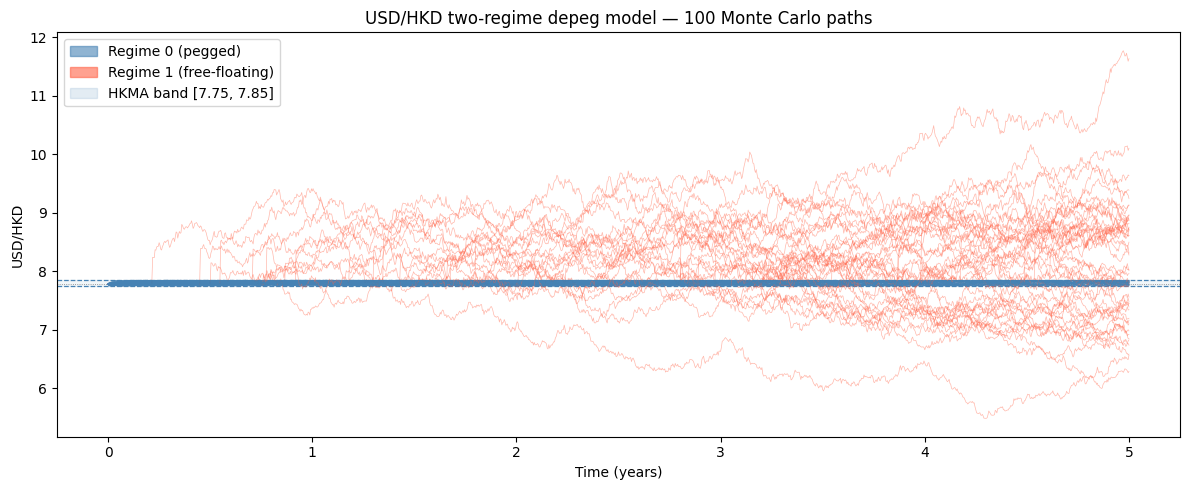
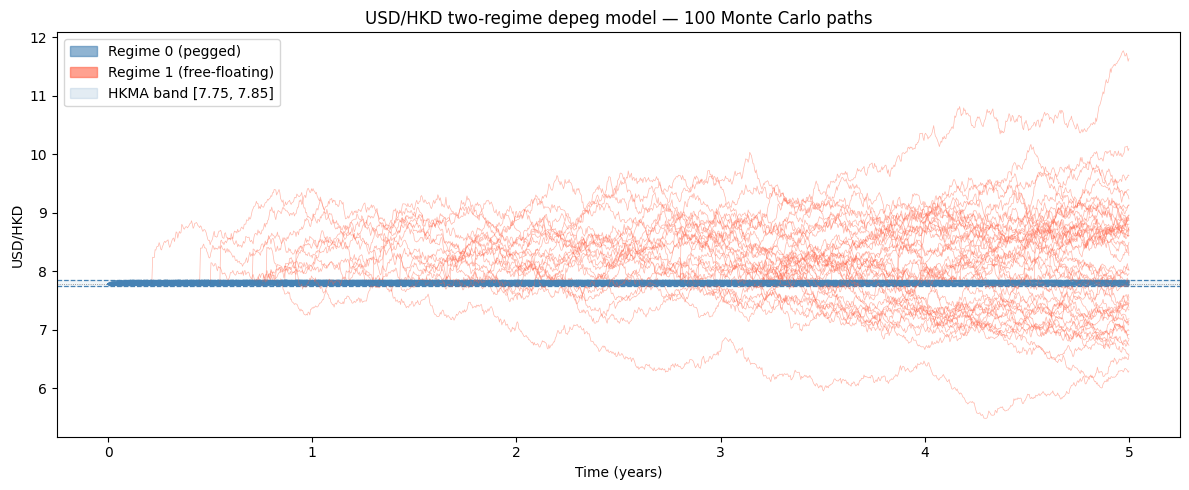
add figures

diff --git a/_posts/2021-11-01-depeg.md b/_posts/2021-11-01-depeg.md
@@ -481,6 +481,9 @@ def semi_analytic_call(K):
     return C_peg + C_dep
 ```
 
+    Pre-computing Regime-0 density on (s, x) grid …  done.
+
+
 ### Forward Price
 
 We first verify that $F_{\rm model} = \mathbb{E}^Q[S(T)]$ computed analytically from the density matches the Monte Carlo estimate. We also decompose the forward into the no-depeg and depeg contributions:
@@ -539,6 +542,34 @@ print(f"{'E[S(T) | depeg]     Monte Carlo':<42}  {S_T_fwd[depegged].mean():10.5f
 z = (F_model - fwd_mc) / fwd_se
 print(f"\nz-score  (F_model − MC) / SE  =  {z:.2f}  (|z| < 1.96 → within 95% CI)")
 ```
+
+    Simulating 200,000 paths for forward validation …  
+
+    /var/folders/82/lkpb1cxn4rz7l0xpl7j_d8vm0000gn/T/ipykernel_58759/3118217143.py:3: DeprecationWarning: `trapz` is deprecated. Use `trapezoid` instead, or one of the numerical integration functions in `scipy.integrate`.
+      m1_s = np.trapz(x_grid * p0_grid, x_grid, axis=1)   # shape (NS,)
+    /var/folders/82/lkpb1cxn4rz7l0xpl7j_d8vm0000gn/T/ipykernel_58759/3118217143.py:4: DeprecationWarning: `trapz` is deprecated. Use `trapezoid` instead, or one of the numerical integration functions in `scipy.integrate`.
+      m1_T = np.trapz(x_grid * p0_at_T, x_grid)           # scalar
+    /var/folders/82/lkpb1cxn4rz7l0xpl7j_d8vm0000gn/T/ipykernel_58759/3118217143.py:10: DeprecationWarning: `trapz` is deprecated. Use `trapezoid` instead, or one of the numerical integration functions in `scipy.integrate`.
+      + np.trapz(
+
+
+    done.
+    
+    Quantity                                         Value
+    ────────────────────────────────────────────────────────
+    F_model  (analytic from density)               8.04996
+    E[S(T)]  Monte Carlo                           8.05103
+      95% CI                                    [8.04755, 8.05450]
+    F_bs     S0·e^(r-q)T  (cost-of-carry)          8.17889
+    
+    P(no depeg)  Monte Carlo                      60.7995%
+    P(no depeg)  theory  e^(-λT)                  60.6531%
+    
+    E[S(T) | no depeg]  Monte Carlo                7.80230  ← in [7.75, 7.85]
+    E[S(T) | depeg]     Monte Carlo                8.43679
+    
+    z-score  (F_model − MC) / SE  =  -0.60  (|z| < 1.96 → within 95% CI)
+
 
 ### Vanilla Call Prices
 
@@ -603,6 +634,46 @@ for K, cp, cm, lo, hi, z in zip(K_grid, analytic_prices, mc_prices, mc_lo, mc_hi
     flag = "" if abs(z) < 1.96 else "  ← outside 95% CI"
     print(f"{K:8.3f}  {cp:10.5f}  {cm:10.5f}  {lo:8.5f}  {hi:8.5f}  {z:8.2f}{flag}")
 ```
+
+    Computing semi-analytic prices …  done.
+    Simulating 50,000 paths …  
+
+    <>:45: SyntaxWarning: invalid escape sequence '\,'
+    <>:45: SyntaxWarning: invalid escape sequence '\,'
+    /var/folders/82/lkpb1cxn4rz7l0xpl7j_d8vm0000gn/T/ipykernel_58759/1377245770.py:45: SyntaxWarning: invalid escape sequence '\,'
+      ax.set_ylabel('$(C_{\\rm analytic} - C_{\\rm MC})\,/\,\\mathrm{SE}$')
+    /var/folders/82/lkpb1cxn4rz7l0xpl7j_d8vm0000gn/T/ipykernel_58759/4002674371.py:55: DeprecationWarning: `trapz` is deprecated. Use `trapezoid` instead, or one of the numerical integration functions in `scipy.integrate`.
+      * np.trapz(np.maximum(x_grid - K, 0.0) * p0_at_T, x_grid))
+    /var/folders/82/lkpb1cxn4rz7l0xpl7j_d8vm0000gn/T/ipykernel_58759/4002674371.py:68: DeprecationWarning: `trapz` is deprecated. Use `trapezoid` instead, or one of the numerical integration functions in `scipy.integrate`.
+      C_dep  = np.trapz(weight * np.trapz(p0_grid * vj, x_grid, axis=1), s_grid)
+
+
+    done.
+
+
+
+    
+![png](/assets/images/depeg/depeg-2.png)
+    
+
+
+    
+      Strike    Analytic    MC price     MC lo     MC hi   z-score
+    ──────────────────────────────────────────────────────────────────
+       7.600     0.38976     0.39361   0.38862   0.39859     -1.51
+       7.650     0.35430     0.35808   0.35311   0.36304     -1.49
+       7.700     0.31908     0.32279   0.31784   0.32773     -1.47
+       7.750     0.28411     0.28776   0.28284   0.29269     -1.45
+       7.800     0.25477     0.25839   0.25351   0.26328     -1.45
+       7.850     0.23749     0.24107   0.23627   0.24588     -1.46
+       7.900     0.22698     0.23043   0.22574   0.23512     -1.44
+       7.950     0.21675     0.22009   0.21550   0.22468     -1.43
+       8.000     0.20684     0.21006   0.20557   0.21454     -1.41
+       8.050     0.19724     0.20033   0.19596   0.20471     -1.38
+       8.100     0.18796     0.19094   0.18667   0.19522     -1.37
+       8.150     0.17901     0.18189   0.17771   0.18606     -1.35
+       8.200     0.17039     0.17317   0.16909   0.17724     -1.34
+
 
 ## Implied Volatility Smile
 
@@ -687,6 +758,47 @@ for K, p, v in zip(K_iv, prices_iv, iv):
     iv_str = f"{v*100:9.2f}%" if not np.isnan(v) else "       NaN"
     print(f"{K:8.3f}  {p:12.5f}  {iv_str}  {bs_flat:12.5f}")
 ```
+
+    Computing semi-analytic prices for IV smile …  done.
+
+
+    /var/folders/82/lkpb1cxn4rz7l0xpl7j_d8vm0000gn/T/ipykernel_58759/4002674371.py:55: DeprecationWarning: `trapz` is deprecated. Use `trapezoid` instead, or one of the numerical integration functions in `scipy.integrate`.
+      * np.trapz(np.maximum(x_grid - K, 0.0) * p0_at_T, x_grid))
+    /var/folders/82/lkpb1cxn4rz7l0xpl7j_d8vm0000gn/T/ipykernel_58759/4002674371.py:68: DeprecationWarning: `trapz` is deprecated. Use `trapezoid` instead, or one of the numerical integration functions in `scipy.integrate`.
+      C_dep  = np.trapz(weight * np.trapz(p0_grid * vj, x_grid, axis=1), s_grid)
+
+
+
+    
+![png](/assets/images/depeg/depeg-3.png)
+    
+
+
+    
+      Strike   Model price   Impl. vol    BS flat σ₁
+    ────────────────────────────────────────────────
+       7.600       0.38976       2.86%       0.63173
+       7.650       0.35430       2.75%       0.60897
+       7.700       0.31908       2.62%       0.58676
+       7.750       0.28411       2.49%       0.56511
+       7.800       0.25477       2.47%       0.54401
+       7.850       0.23749       2.66%       0.52347
+       7.900       0.22698       2.92%       0.50348
+       7.950       0.21675       3.15%       0.48404
+       8.000       0.20684       3.35%       0.46515
+       8.050       0.19724       3.53%       0.44680
+       8.100       0.18796       3.69%       0.42898
+       8.150       0.17901       3.83%       0.41170
+       8.200       0.17039       3.97%       0.39494
+       8.250       0.16209       4.09%       0.37871
+       8.300       0.15413       4.21%       0.36299
+       8.350       0.14649       4.32%       0.34777
+       8.400       0.13917       4.42%       0.33305
+       8.450       0.13217       4.52%       0.31882
+       8.500       0.12547       4.61%       0.30507
+       8.550       0.11907       4.69%       0.29179
+       8.600       0.11296       4.77%       0.27898
+
 
 ## Parameter Sensitivity
 
@@ -779,3 +891,64 @@ for title, param, values in sweeps:
     plt.tight_layout()
     plt.show()
 ```
+
+      lam …  
+
+    /var/folders/82/lkpb1cxn4rz7l0xpl7j_d8vm0000gn/T/ipykernel_58759/4213213863.py:27: DeprecationWarning: `trapz` is deprecated. Use `trapezoid` instead, or one of the numerical integration functions in `scipy.integrate`.
+      m1s = np.trapz(xg * p0g, xg, axis=1)
+    /var/folders/82/lkpb1cxn4rz7l0xpl7j_d8vm0000gn/T/ipykernel_58759/4213213863.py:28: DeprecationWarning: `trapz` is deprecated. Use `trapezoid` instead, or one of the numerical integration functions in `scipy.integrate`.
+      m1T = np.trapz(xg * p0T, xg)
+    /var/folders/82/lkpb1cxn4rz7l0xpl7j_d8vm0000gn/T/ipykernel_58759/4213213863.py:30: DeprecationWarning: `trapz` is deprecated. Use `trapezoid` instead, or one of the numerical integration functions in `scipy.integrate`.
+      + np.trapz(mdl.lam * np.exp(-mdl.lam * sg) * (1.0 + kv)
+    /var/folders/82/lkpb1cxn4rz7l0xpl7j_d8vm0000gn/T/ipykernel_58759/4213213863.py:15: DeprecationWarning: `trapz` is deprecated. Use `trapezoid` instead, or one of the numerical integration functions in `scipy.integrate`.
+      * np.trapz(np.maximum(xg - K, 0.0) * p0T, xg))
+    /var/folders/82/lkpb1cxn4rz7l0xpl7j_d8vm0000gn/T/ipykernel_58759/4213213863.py:24: DeprecationWarning: `trapz` is deprecated. Use `trapezoid` instead, or one of the numerical integration functions in `scipy.integrate`.
+      * np.trapz(p0g * vj, xg, axis=1), sg)
+    /var/folders/82/lkpb1cxn4rz7l0xpl7j_d8vm0000gn/T/ipykernel_58759/4213213863.py:23: DeprecationWarning: `trapz` is deprecated. Use `trapezoid` instead, or one of the numerical integration functions in `scipy.integrate`.
+      Cdep = np.trapz(mdl.lam * np.exp(-(mdl.lam + mdl.r) * sg)
+
+
+    done.
+
+
+
+    
+![png](/assets/images/depeg/depeg-4.png)
+    
+
+
+      mu_J …  done.
+
+
+
+    
+![png](/assets/images/depeg/depeg-5.png)
+    
+
+
+      sigma_J …  done.
+
+
+
+    
+![png](/assets/images/depeg/depeg-6.png)
+    
+
+
+      sigma1 …  done.
+
+
+
+    
+![png](/assets/images/depeg/depeg-7.png)
+    
+
+
+      sigma0 …  done.
+
+
+
+    
+![png](/assets/images/depeg/depeg-8.png)
+    
+
